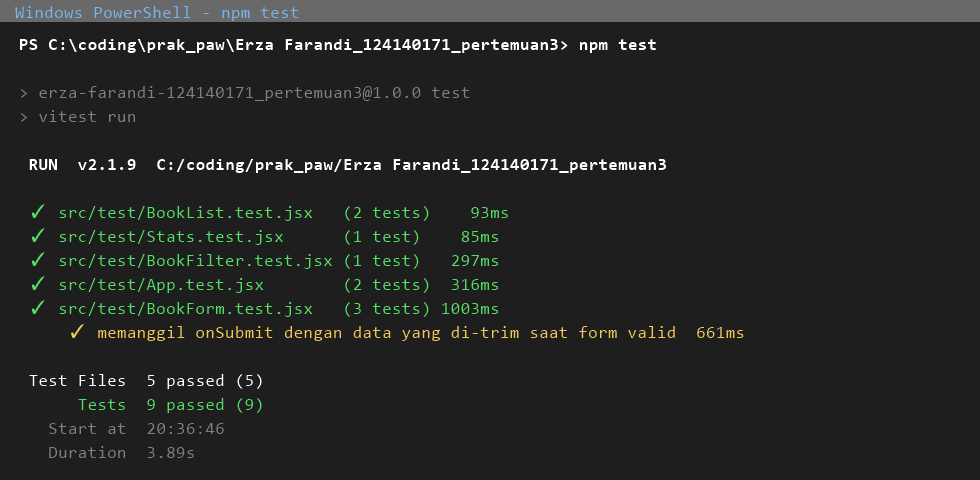
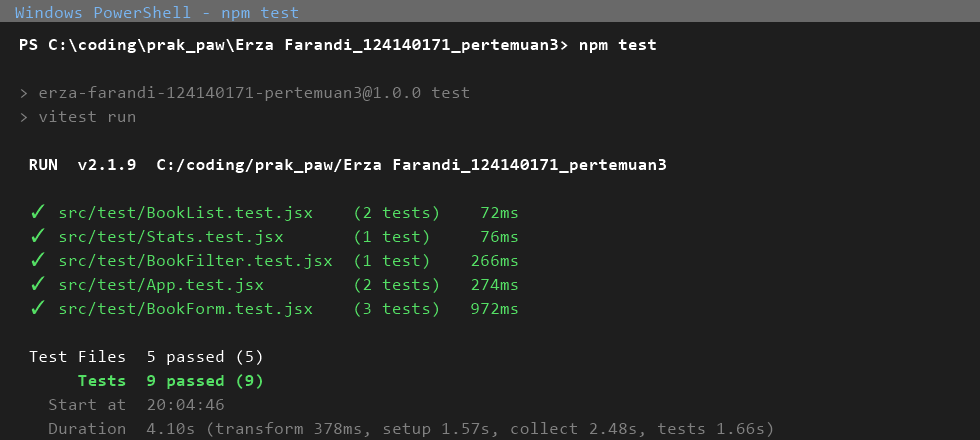
navbar sticky + label tanpa tanda bintang + tombol tambah sewarna navbar

diff --git a/Erza Farandi_124140171_pertemuan3/src/components/BookForm/BookForm.jsx b/Erza Farandi_124140171_pertemuan3/src/components/BookForm/BookForm.jsx
@@ -54,7 +54,7 @@ export default function BookForm({ initialBook, submitLabel = "Tambah Buku", onS
     <form className="book-form" onSubmit={handleSubmit} noValidate>
       <div className="row">
         <div className="col">
-          <label htmlFor="bf-title">Judul *</label>
+          <label htmlFor="bf-title">Judul</label>
           <input
             id="bf-title"
             name="title"
@@ -67,7 +67,7 @@ export default function BookForm({ initialBook, submitLabel = "Tambah Buku", onS
           {errors.title && <p className="error-text" role="alert">{errors.title}</p>}
         </div>
         <div className="col">
-          <label htmlFor="bf-author">Penulis *</label>
+          <label htmlFor="bf-author">Penulis</label>
           <input
             id="bf-author"
             name="author"
@@ -82,7 +82,7 @@ export default function BookForm({ initialBook, submitLabel = "Tambah Buku", onS
       </div>
       <div className="row">
         <div className="col">
-          <label htmlFor="bf-status">Status *</label>
+          <label htmlFor="bf-status">Status</label>
           <select id="bf-status" name="status" value={form.status} onChange={handleChange}>
             {STATUSES.map((s) => (
               <option key={s.value} value={s.value}>{s.label}</option>

diff --git a/Erza Farandi_124140171_pertemuan3/src/components/BookForm/BookForm.css b/Erza Farandi_124140171_pertemuan3/src/components/BookForm/BookForm.css
@@ -11,7 +11,16 @@
   color: var(--muted);
   margin-bottom: 5px;
 }
-.book-form button[type="submit"] { width: 100%; }
+.book-form button[type="submit"] {
+  width: 100%;
+  /* warna sama dengan navbar */
+  background: #3b82f6;
+  border-color: #3b82f6;
+}
+.book-form button[type="submit"]:hover {
+  background: #2563eb;
+  border-color: #2563eb;
+}
 @media (max-width: 560px) {
   .book-form .row { grid-template-columns: 1fr; }
 }

diff --git a/Erza Farandi_124140171_pertemuan3/src/components/Navbar/Navbar.css b/Erza Farandi_124140171_pertemuan3/src/components/Navbar/Navbar.css
@@ -2,6 +2,10 @@
 .navbar {
   background: #3b82f6;
   border-bottom: none;
+  /* tetap terlihat saat halaman di-scroll */
+  position: sticky;
+  top: 0;
+  z-index: 10;
 }
 .navbar-inner {
   display: flex;

diff --git a/Erza Farandi_124140171_pertemuan3/README.md b/Erza Farandi_124140171_pertemuan3/README.md
@@ -8,11 +8,13 @@ Aplikasi React (Vite) untuk mencatat koleksi buku pribadi dalam tiga status: **d
 
 | Halaman | Isi |
 |---|---|
-| `/` (Daftar Buku) | Daftar semua buku, pencarian (judul/penulis), filter per status, tombol tambah → form input, tombol hapus & edit per buku |
+| `/` (Daftar Buku) | Form **Tambah Buku** yang selalu tampil di atas, lalu daftar semua buku dengan pencarian (judul/penulis), filter per status, serta tombol hapus & edit per buku |
 | `/stats` (Statistik) | Jumlah buku per status + progress bar persentase (memakai custom hook `useBookStats`) |
 | `/edit/:id` (Edit Buku) | Form edit yang sudah terisi data buku terpilih, kembali ke daftar setelah simpan |
 
-Data tersimpan di `localStorage` (key `bookmania_books_v1`) sehingga tidak hilang saat refresh. Kunjungan pertama diisi 3 buku contoh yang bebas dihapus/ubah.
+Data tersimpan di `localStorage` (key `bookmania_books_v2`) sehingga tidak hilang saat refresh. Kunjungan pertama diisi 4 buku contoh yang bebas dihapus/ubah.
+
+Navbar bersifat *sticky* (`position: sticky`): tetap terlihat di atas layar walaupun halaman di-scroll.
 
 ## 2. Instalasi & Cara Menjalankan
 
@@ -39,20 +41,31 @@ Tangkapan layar aplikasi berjalan tersimpan di folder `screenshots/`:
 
 | File | Isi |
 |---|---|
-| `screenshots/home.png` | Daftar buku (filter, pencarian) |
-| `screenshots/form-tambah.png` | Form tambah buku |
+| `screenshots/home.png` | Halaman daftar buku: form tambah di atas + daftar, filter, pencarian |
 | `screenshots/error-validasi.png` | Feedback error saat kolom wajib kosong |
 | `screenshots/stats.png` | Halaman statistik |
+| `screenshots/navbar-sticky.png` | Navbar tetap terlihat saat halaman di-scroll |
 | `screenshots/test.png` | Hasil `npm test` di terminal |
 
-Tautkan seperti ini:
+### Halaman Daftar Buku (form tambah + daftar)
 
-```md
 ![Home](screenshots/home.png)
-![Error](screenshots/error-validasi.png)
+
+### Error Validasi Form
+
+![Error validasi](screenshots/error-validasi.png)
+
+### Halaman Statistik
+
 ![Stats](screenshots/stats.png)
+
+### Navbar Saat Scroll
+
+![Navbar sticky](screenshots/navbar-sticky.png)
+
+### Laporan Testing (`npm test`)
+
 ![Test](screenshots/test.png)
-```
 
 ## 4. Struktur Project
 
@@ -93,7 +106,7 @@ Erza Farandi_124140171_pertemuan3/
 
 | Persyaratan | Implementasi |
 |---|---|
-| `useState` | `BookForm.jsx` (nilai form & error), `Home.jsx` (filter, search, visibilitas form), `useLocalStorage.js` |
+| `useState` | `BookForm.jsx` (nilai form & error), `Home.jsx` (filter & pencarian), `useLocalStorage.js` |
 | `useEffect` | `useLocalStorage.js` — menulis ke localStorage setiap state berubah |
 | Context API | `context/BookContext.jsx` — `BookProvider` membungkus seluruh aplikasi (`main.jsx`); komponen apa pun mengakses `books`, `addBook`, `updateBook`, `deleteBook` via hook `useBooks()` |
 | React Router | `main.jsx` (`BrowserRouter`) + `App.jsx`: `Routes/Route`, `NavLink` (aktif/hover di Navbar), `Link` & `useNavigate` (Edit/selesai), `useParams` (ambil `:id`), `Navigate` (fallback `*`) |
@@ -103,7 +116,7 @@ Erza Farandi_124140171_pertemuan3/
 | PropTypes | Seluruh komponen: `Navbar`, `BookFilter`, `BookForm`, `BookList`, `BookCard`, `BookProvider` (`children`), komponen non-React (`useBookStats` berdokumen JSDoc) |
 | Functional components + Hooks | 100% — tidak ada class component |
 | Komponen reusable ≥3 | 5 komponen: `BookForm` dipakai Home & Edit, `BookList`/`BookCard` dipakai Home, `BookFilter` & `Navbar` di 2 halaman |
-| Error handling form | Validasi `validate()` di `BookForm.jsx`: judul & penulis wajib, tahun 1000–2100; feedback visual kelas `.invalid` (border merah) + teks `role="alert"`, error hilang saat kolom diisi ulang |
+| Error handling form | Validasi `validate()` di `BookForm.jsx`: judul & penulis wajib diisi; feedback visual kelas `.invalid` (border merah) + teks `role="alert"`, error hilang saat kolom diisi ulang |
 
 ## 6. Testing & Laporan
 
@@ -131,7 +144,7 @@ Hasil eksekusi `npm test` saat penulisan README:
    Duration  3.77s
 ```
 
-> Laporan testing wajib berupa screenshot terminal: jalankan `npm test`, screenshot hasilnya, simpan sebagai `screenshot-test.png` (lihat bagian 3).
+> Laporan testing wajib berupa screenshot terminal: jalankan `npm test`, screenshot hasilnya, simpan sebagai `screenshots/test.png` (lihat bagian 3).
 
 ## 7. Komentar Kode
 
